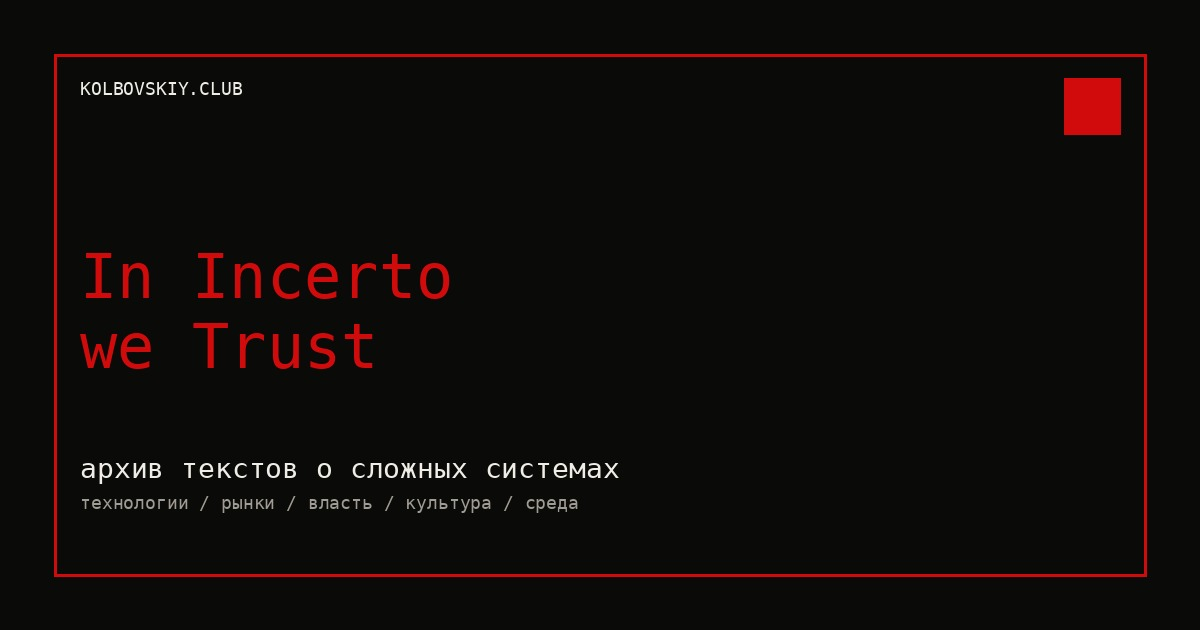
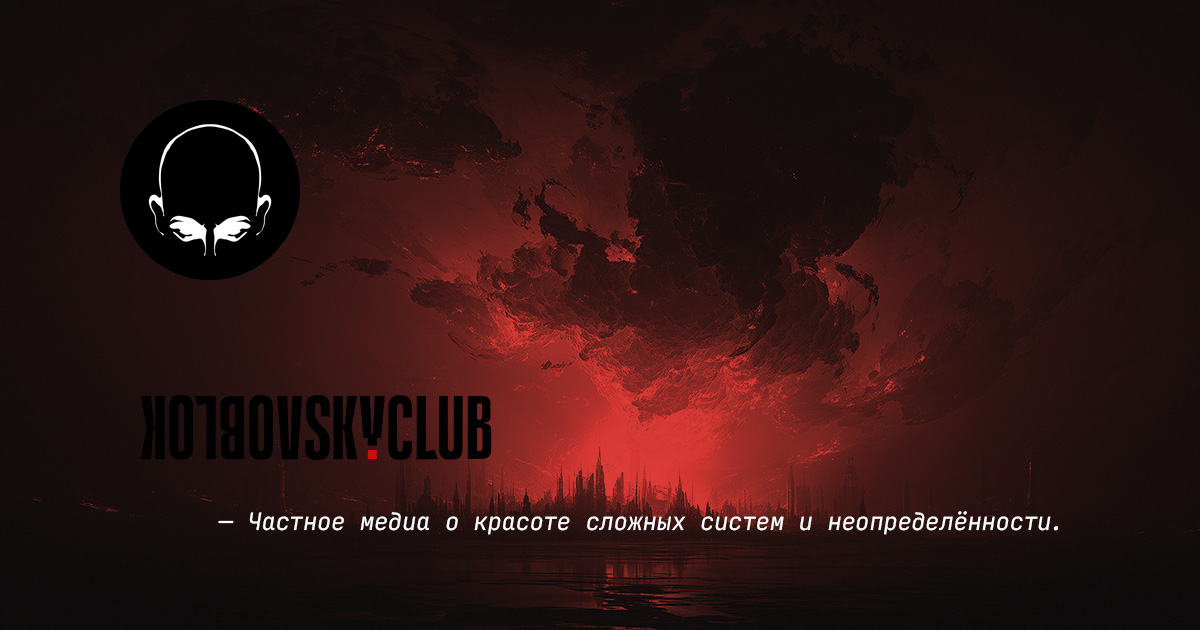
fin

diff --git a/src/data/siteEntity.ts b/src/data/siteEntity.ts
@@ -69,7 +69,7 @@ export const kolbovskiyClubWebsite = {
   alternateName: ['KLB CLB', 'Колбовский клуб'],
   url: `${SITE_URL}/`,
   inLanguage: 'ru',
-  description: 'Публичный архив и авторский журнал Никиты Колбовского о технологиях, рынках, власти, культуре, путешествиях, визуальной среде и сбоях системы.',
+  description: 'Авторское издание Никиты Колбовского о реальном мире: технологиях, рынках, власти, культуре, архитектуре, путешествиях и сбоях системы.',
   genre: ['author media', 'public archive', 'journal'],
   creator: { '@id': KOLBOVSKIY_PERSON_ID },
   publisher: { '@id': KOLBOVSKIY_PERSON_ID },
@@ -86,7 +86,7 @@ export const baseEntityGraph = [
   kolbovskiyClubWebsite
 ];
 
-export const buildJsonLdGraph = (nodes: unknown | unknown[] = []) => {
+export const buildJsonLdGraph = (nodes = []) => {
   const normalizedNodes = Array.isArray(nodes) ? nodes : [nodes];
   return {
     '@context': 'https://schema.org',